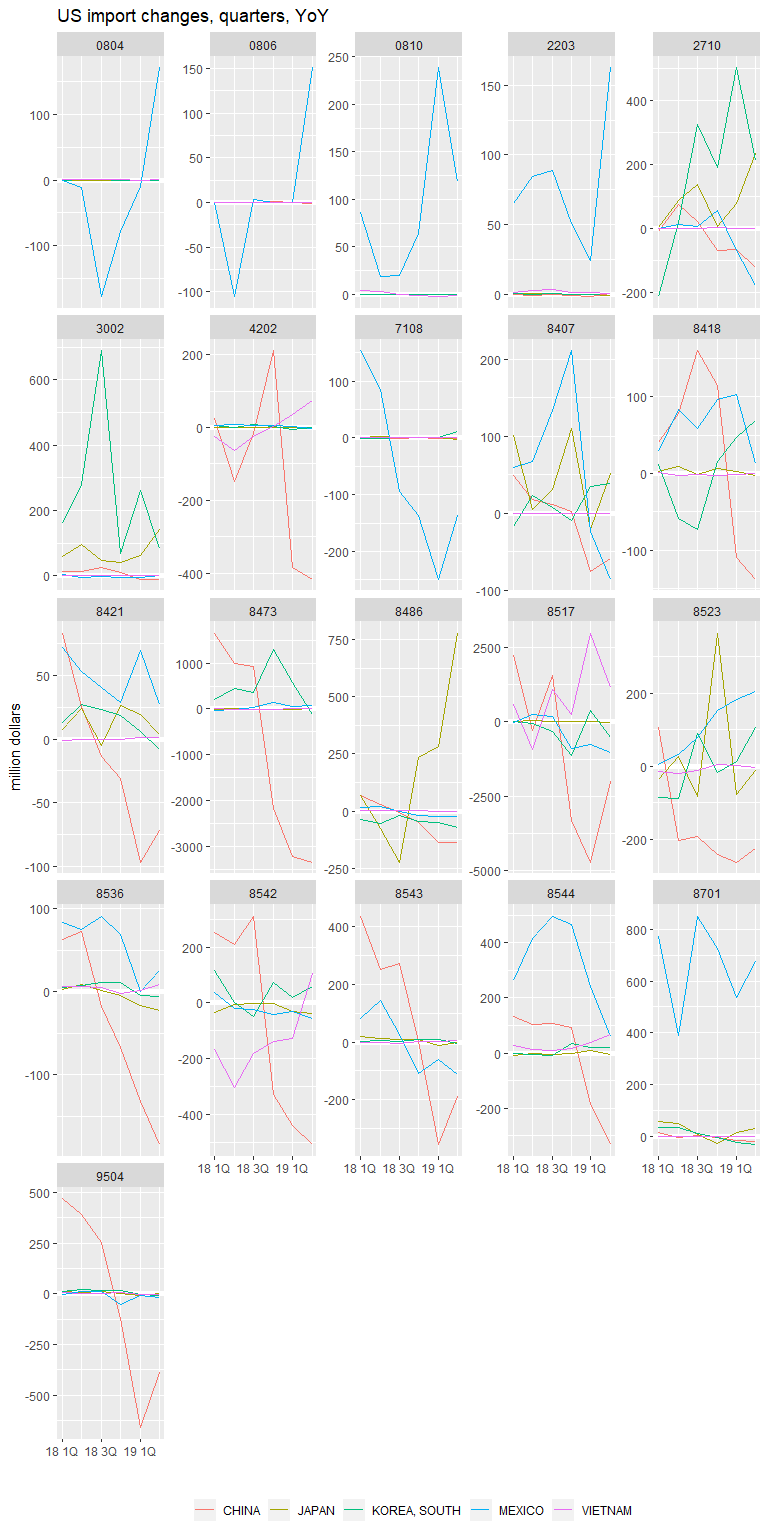
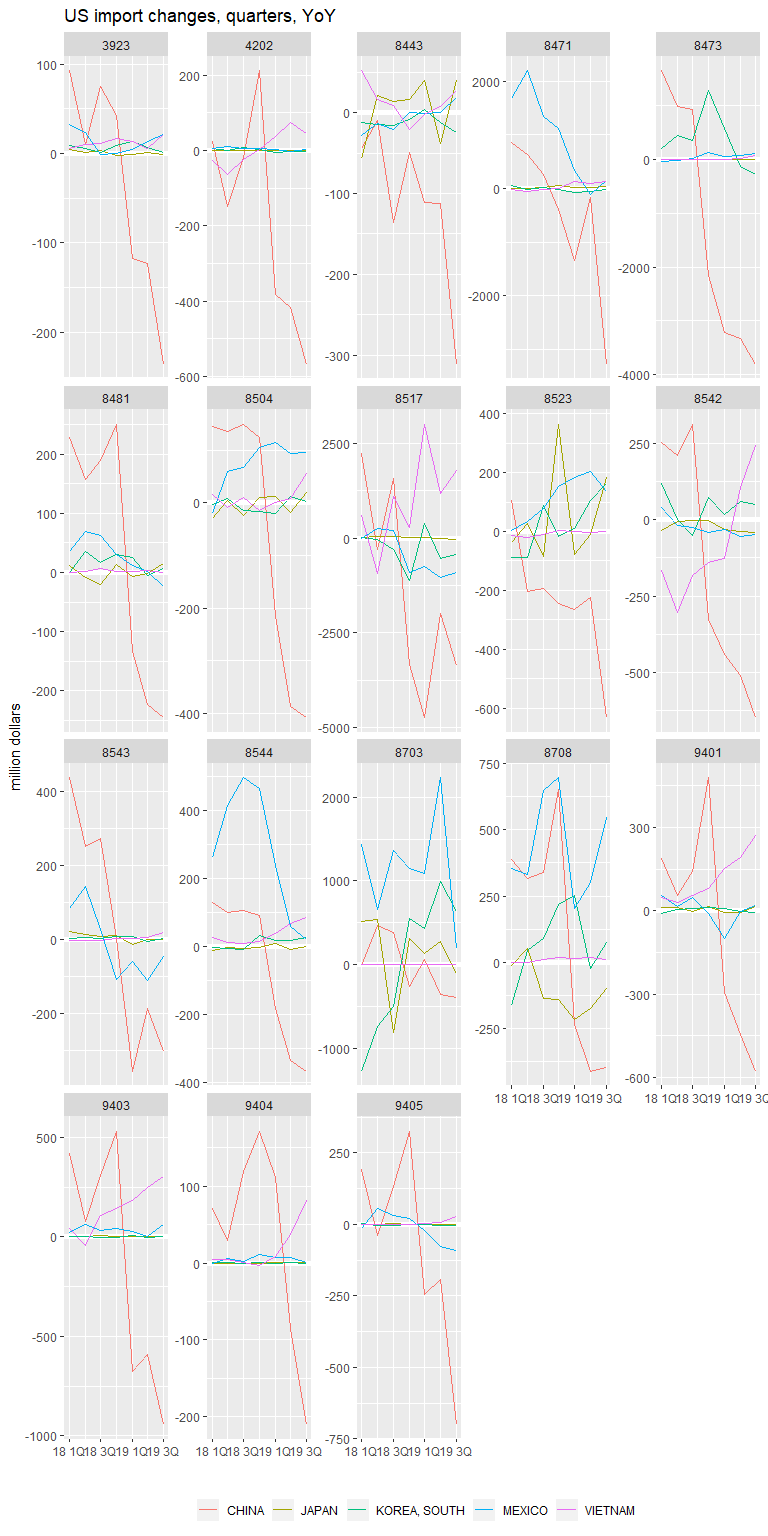
update 3Q 2019

diff --git a/Trade-diversion.md b/Trade-diversion.md
@@ -7,12 +7,12 @@ Mitsuo Shiota
   - [Libraries and functions](#libraries-and-functions)
   - [Download data](#download-data)
   - [Choose HS codes of which imports from China declined significantly
-    in 2019 1Q and
-    2Q](#choose-hs-codes-of-which-imports-from-china-declined-significantly-in-2019-1q-and-2q)
+    in 2019
+    3Q](#choose-hs-codes-of-which-imports-from-china-declined-significantly-in-2019-3q)
   - [Draw charts of US import changes from a year earlier from each
     country](#draw-charts-of-us-import-changes-from-a-year-earlier-from-each-country)
 
-Updated: 2019-08-06
+Updated: 2019-11-11
 
 ## Summary
 
@@ -32,17 +32,16 @@ I download US monthly imports from China, Vietnam, Korea, Japan and
 Mexico by HS 4 digit codes since 2017, convert to quartely, and fill 0s
 in gaps.
 
-After I fill zeros in gaps, the number of rows is 60600. As it matches 5
+After I fill zeros in gaps, the number of rows is 66660. As it matches 5
 (number of countries) times 1212 (number of unique hs goods), I can
 confirm there are no gaps, and safely use `tqr` package which utilizes
 lags.
 
-## Choose HS codes of which imports from China declined significantly in 2019 1Q and 2Q
+## Choose HS codes of which imports from China declined significantly in 2019 3Q
 
-I first choose HS codes of which imports from China declined more than
-20 percent in average in 2019 1Q and 2Q. Next I choose HS codes of which
-imports from China are still more than 500 million dollars in 2019 2Q.
-As a result, I choose 30 goods.
+I first choose HS codes of which imports from China declined by more
+than 200 million dollars in 2019 3Q. Next I choose HS codes of which
+imports from China are still more than 500 million dollars in 2019 3Q.
 
 ## Draw charts of US import changes from a year earlier from each country
 
@@ -55,12 +54,13 @@ yet imposed tariffs by the US. This replacement is caused by Samsung’s
 strategy to expand smart phone production capacity in Vietnam, and by
 ZTE and Huawei losing shares in the US.
 
-Vietnam is also advancing in 0402 (concentrated milk and cream) and 8542
-(IC).
+Vietnam is also advancing in 8542 (IC), 9401 (Seats) and 9403 (Other
+furniture).
 
-Also increasing are Mexico in 0804, 0806, 0810 (fruits) and in 8421
-(centrifuges), Korea in 8418 (refrigerators), and Japan in 8486
-(semiconductor manufacturing equipment).
+Japan, South Korea and Mexico all supplant China in 8523 (Recording
+medium).
+
+Mexico replaces China in 8708 (Auto parts).
 
 ![](Trade-diversion_files/figure-gfm/draw_charts-1.png)<!-- -->
 
